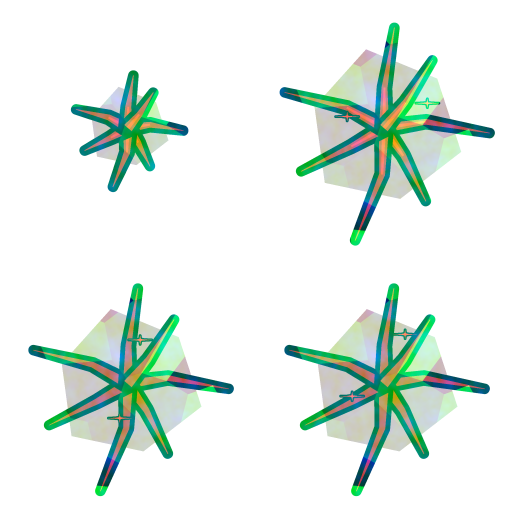
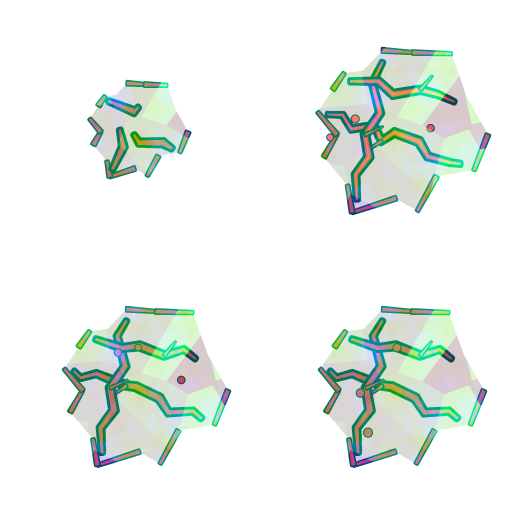
style(fx): the frost mark is a cracked patch of rime, no spokes out of its middle (it read as a crystal star on every water hit)

diff --git a/tools/vfx_gen/gen_elements.py b/tools/vfx_gen/gen_elements.py
@@ -18,7 +18,7 @@ import sys
 import numpy as np
 
 sys.path.insert(0, os.path.dirname(os.path.abspath(__file__)))
-from vfxlib import (BODY, DEEP, HOT, INK, LIGHT, Frame, catmull, ellipse_mask, erode_field, fbm, pack,  # noqa: E402
+from vfxlib import (BODY, DEEP, HOT, INK, LIGHT, Frame, catmull, ellipse_mask, erode_field, fbm, jag_path, pack,  # noqa: E402
                     poly_mask, preview, rng, save, star, stroke, wobble_ring, shrink, grow, SS)
 
 OUT = os.environ.get("VFX_OUT") or os.path.join(os.path.dirname(os.path.abspath(__file__)), "..", "..", "assets", "vfx", "designed")
@@ -348,35 +348,58 @@ def ice_frost(i, n, size):
 
 
 
-# --- 5 b. Frost mark (floor, seen from above; fx-ice2): where an ice crystal cluster used to burst up out of the floor
-# (every water `elements.spikes`, Harpoon's line, the spear going in). A patch of frost: a see-through hexagon of
-# rime, fat straight cracks racing out of the middle past its edge, glints. Frame 0 the cracks
-# half out (anticipation), 1 out with a hot core, 2-3 settling (the glints move). Fat ink: it is seen ~1.5 m across.
+# --- 5 b. Frost mark (floor, seen from above; fx-ice2, redrawn round 53): where an ice crystal cluster used to burst up
+# out of the floor (every water `elements.spikes`, Harpoon's line, the spear going in, Cold Front's and Flash Freeze's
+# frost lines). A patch of rime frozen on the floor: an uneven straight-edged sheet, see-through, with a lit rim, and a
+# few straight cracks running across it, chord to chord, forked once. Nothing radiates from one point (feel audit 5:
+# the old hexagon with seven spokes out of its middle read as a snowflake / crystal star at the game camera) and no
+# four-point glints; round frost beads instead. Frame 0 the sheet half out with its cracks short (anticipation), 1 out
+# with a hot core in the cracks, 2-3 settling (the beads move). Fat ink: it is seen ~1.5 m across.
 
 def ice_mark(i, n, size):
     f = Frame(size)
-    c = f.c
+    S, c = f.S, f.c
+    reach = [0.6, 1.04, 1.0, 1.0][i]
     g = rng(431)
-    reach = [0.55, 1.05, 1.0, 1.0][i]
-    turn = 0.3
-    hexa = [polar(c, c, f.u(0.6 * reach * (1.0 if q % 2 == 0 else 0.9)), turn + math.tau * q / 6) for q in range(6)]
-    f.fill(poly_mask([hexa], f.S), BODY, ink=0.0, alpha=0.4)
-    g2 = rng(433)
-    for k in range(7):
-        a = math.tau * (k + g2.uniform(-0.25, 0.25)) / 7
-        rr = f.u(g2.uniform(0.62, 0.9) * reach)
-        pts = [(c, c)]
-        for q in (0.4, 1.0):
-            pts.append(polar(c, c, rr * q, a + g2.uniform(-0.18, 0.18)))
-        w = f.u(0.075)
-        f.poly(stroke(pts, [w, w * 0.6, 2.0], cap=False), LIGHT, ink=5.0)
-        if i <= 1:
-            f.poly(stroke(pts[:2], [w * 0.4, w * 0.2], cap=False), HOT)
-    if i >= 1:
+    turn = g.uniform(0, math.tau)
+    sides = 17
+    rim = []
+    for q in range(sides):  # an uneven fringe of rime, wider one way than the other (no rotational symmetry)
+        a = turn + math.tau * (q + g.uniform(-0.3, 0.3)) / sides
+        rr = f.u(reach * g.uniform(0.5, 0.72) * (1.0 + 0.2 * math.cos(a - turn)) * (0.86 if q % 2 else 1.0))
+        rim.append(polar(c, c, rr, a))
+    sheet = poly_mask([rim], S)
+    f.fill(sheet, BODY, ink=0.0, alpha=0.3)
+    # the frosted edge, broken: short lit stretches on some of the rim, bare gaps between (not a closed outline)
+    for q in range(sides):
+        if q % 3 == 2 or q % 5 == 0:
+            continue
+        a, b = rim[q], rim[(q + 1) % sides]
+        f.poly(stroke([a, b], [f.u(0.03), f.u(0.018)], cap=False), LIGHT, ink=1.6)
+    # cracks: chords across the sheet between rim corners, off its middle, kinked, one fork each
+    picks = [(0, 8), (4, 12), (10, 15)]
+    for k, (qa, qb) in enumerate(picks):
+        a, b = np.asarray(rim[qa], float), np.asarray(rim[qb], float)
+        a, b = c + (a - c) * 0.85, c + (b - c) * 0.85
+        if i == 0:  # half out: from its first end
+            b = a + (b - a) * 0.5
+        pts = jag_path(a, b, f.u(0.14), 0.4, 437 + k)
+        w = f.u(0.045)
+        f.poly(stroke(pts, [w * 0.4, w, w * 0.8, w * 0.3], cap=False), LIGHT, ink=3.0)
+        if i == 1:
+            f.poly(stroke(pts, [1.0, w * 0.35, w * 0.3, 1.0], cap=False), HOT)
+        if i > 0:
+            m = pts[len(pts) // 2]
+            d = b - a
+            side = np.array([-d[1], d[0]]) / max(1e-6, np.linalg.norm(d))
+            tip = m + side * f.u(0.12) * (1 if k % 2 else -1) + d * 0.08
+            f.poly(stroke([tuple(m), tuple(tip)], [w * 0.4, 1.0], cap=False), LIGHT, ink=1.6)
+    if i >= 1:  # frost beads, not sparkles
         g3 = rng(440 + i)
-        for k in range(2):
-            x, y = polar(c, c, f.u(g3.uniform(0.25, 0.5)), g3.uniform(0, math.tau))
-            glint(f, x, y, f.u(0.09))
+        for k in range(3):
+            x, y = polar(c, c, f.u(g3.uniform(0.18, 0.45)), g3.uniform(0, math.tau))
+            r = f.u(g3.uniform(0.02, 0.032))
+            f.fill(ellipse_mask(x, y, r, r, S), HOT if i == 1 else LIGHT, ink=1.2)
     facet_order(f, 437, cells=24)
     return f.finish()
 
